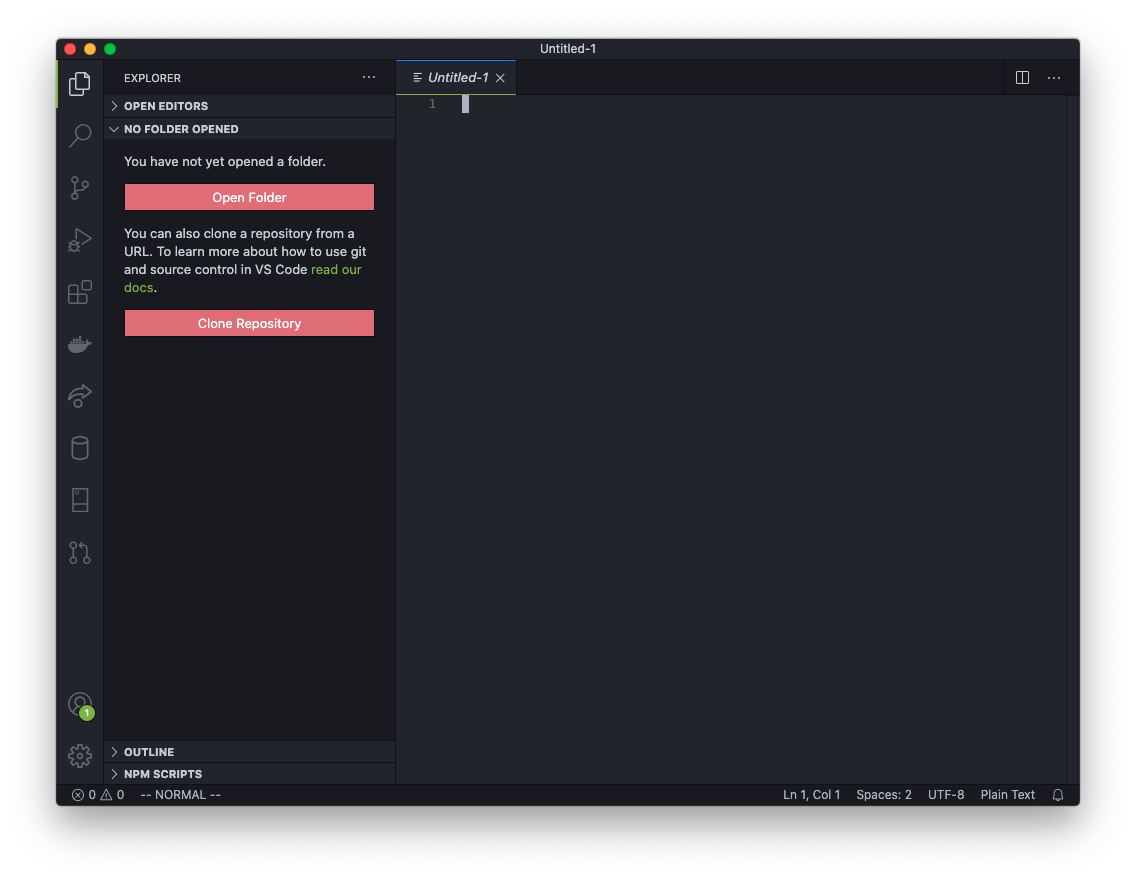
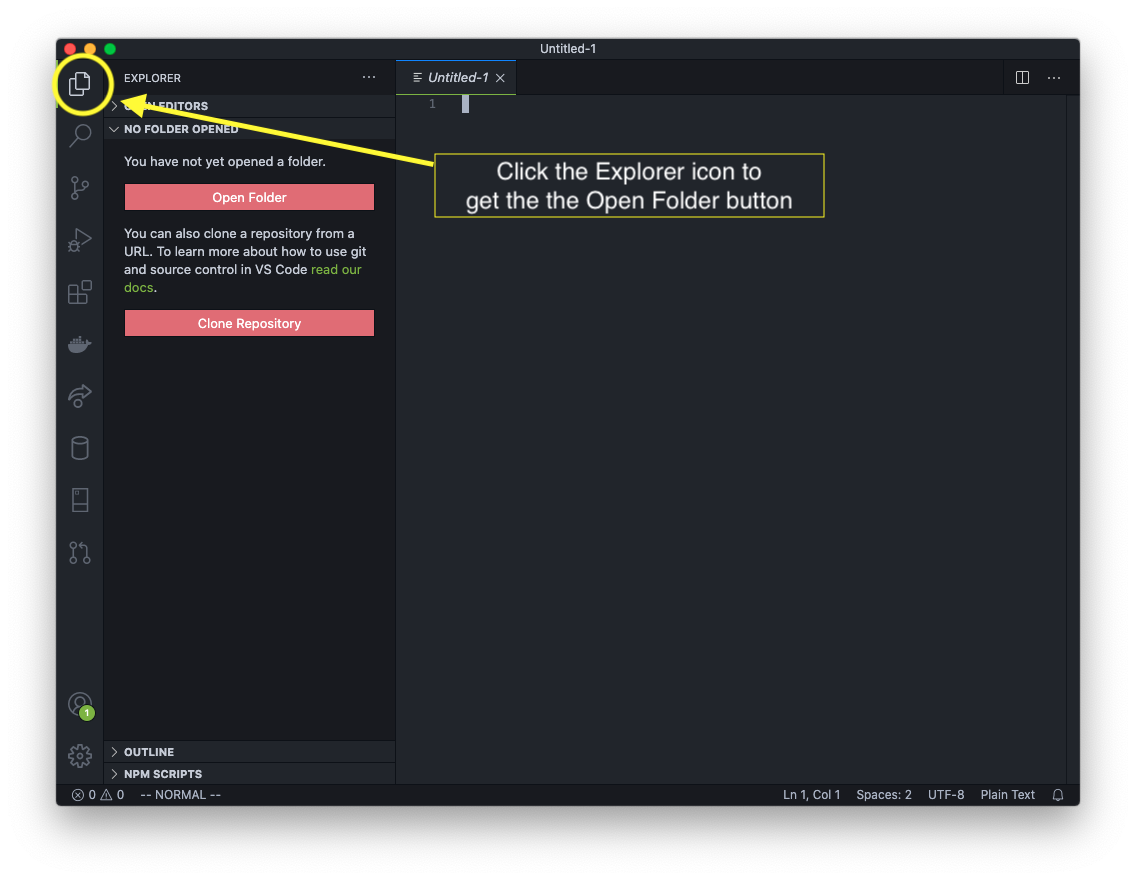
Update instructions for Docker, Github, VS Code

diff --git a/phpmotors/views/docker-setup.html b/phpmotors/views/docker-setup.html
@@ -41,6 +41,7 @@
       <iframe width="560" height="315" src="https://www.youtube.com/embed/O4Yro0VN5Ds" frameborder="0" allow="accelerometer; autoplay; clipboard-write; encrypted-media; gyroscope; picture-in-picture" allowfullscreen>
       </iframe>
 
+      <p>Mac users with the new Apple silicon, download the correct version for Docker from here: <a href="https://docs.docker.com/desktop/mac/apple-silicon/">https://docs.docker.com/desktop/mac/apple-silicon/</a></p>
 
       <h1 id="create-a-project-folder">Create a Project Folder</h1>
       <p>Next we need to decide where to locate the files for this course. Create a project folder anywhere on your computer that you like. One suggestion is to create this in your Documents folder.</p>
@@ -48,10 +49,12 @@
       <iframe width="560" height="315" src="https://www.youtube.com/embed/FhjLQYFg3FY" frameborder="0" allow="accelerometer; autoplay; clipboard-write; encrypted-media; gyroscope; picture-in-picture" allowfullscreen></iframe>
       <p>[This video shows the steps that are detailed below. There is no audio, yet.]</p>
 
-      <p>Open VS Code in a new window (<u>File-&gt;New Window</u>). We will now create a new folder named <code>cse340</code> that will hold the Docker files and the website project files. Click the <u>Open Folder</u> button, browse to the path where you want your project files to reside, and create a new folder named <code>cse340</code>. Then click the <u>Open</u> button.</p>
+      <p>Open VS Code in a new window (<u>File-&gt;New Window</u>). We will now create a new folder named <code>cse340</code> that will hold the Docker files and the website project files. Click on the "Explorer" icon which is in the top left corner of the VS Code window. Click the <u>Open Folder</u> button, browse to the path where you want your project files to reside, and create a new folder named <code>cse340</code>. Then click the <u>Open</u> button.</p>
       <p><img src="/340br/images/docker/open-folder-button.png" alt="Open folder button" /></p>
 
       <p> <img src="/340br/images/docker/create-folder.png" alt="Create folder" /></p>
+
+      <p>Click the check boxes and buttons that say you approve and trust the authors of the folder. (That's you anyways, so hopefully you trust yourself. :) )</p>
       <p>Your workspace in VS Code should now look something like this:</p>
       <p><img src="/340br/images/docker/vscode-workspace.png" alt="VS Code Workspace" /></p>
       <p>When you are asked to zip your project folder, the <code>cse340</code> folder is the folder you will zip up, including all of the contents within.</p>
@@ -75,13 +78,14 @@
       <p><img src="/340br/images/docker/clone-before.png" alt="Clone command" /></p>
       <p>After the clone command runs, your VS Code will look like this:</p>
       <p><img src="/340br/images/docker/clone-after.png" alt="Clone command" /></p>
-      <p>You will notice a new folder and four files. Here is what they do:</p>
+      <p>You will notice a new folder and five files. Here is what they do:</p>
       <ul>
         <li><code>www</code> folder = This is where all of the website files will go (PHP, HTML, CSS, images, etc)</li>
         <li><code>.gitignore</code> = just ignore this file :) This file tells Git to ignore files and folders</li>
         <li><code>docker-compose.yml</code> = A file to select specific images and send commands to the containers. Docker uses this file to know what images to use to turn into running containers.</li>
         <li><code>Dockerfile</code> = Tells Docker how to create an image used in the docker-compose.yml file</li>
         <li><code>README.md</code> = Contains the text you see on the GitHub page for this repo</li>
+        <li><code>uploads.ini</code> = Contains settings to allow PHP to upload files as large as 256MB</li>
       </ul>
 
 
@@ -95,6 +99,12 @@
       <p>Click on the docker-compose.yml file in the VS Code sidebar so you can edit the contents.</p>
       <p>Change the name of the database on line 43 to <code>phpmotors</code>. Make sure to save the file!</p>
       <p><img src="/340br/images/docker/change-db-name.png" alt="Change db name" /></p>
+
+      <p>If you have a new Mac with the M1 or newer CPU, then you will also need to uncomment line #33</p>
+      <p><img src="/340br/images/docker/mac-silicon-change.png" alt="Uncomment this line if you have a new Mac" /></p>
+
+      <p>You will also need to run this command in the terminal (if you haven't done it already):</p>
+      <p><code>softwareupdate --install-rosetta</code></p>
 
       <p>You can change the root password, username and user password if you desire, but it's not necessary for this course. In a production environment, you would want to use a more secure password and use environment variables so that the passwords are not saved in a file that will be shared.</p>
 

diff --git a/phpmotors/views/github-vscode-setup.html b/phpmotors/views/github-vscode-setup.html
@@ -125,7 +125,7 @@
       <p>Notice the Git icon on the left sidebar. Click on that.</p>
       <p><img src="/340br/images/github-vscode/new-vscode-window.png" alt="New VS Code window" /></p>
 
-      <p>You should see two pink colored buttons; one for <u>Open Folder</u> and one for <u>Clone Repository.</u> Click on the <u>Clone Repository</u> button. This opens the VS Code Command Prompt. </p>
+      <p>You should see two buttons; one for <u>Open Folder</u> and one for <u>Clone Repository.</u> Click on the <u>Clone Repository</u> button. This opens the VS Code Command Prompt. </p>
       <p><img src="/340br/images/github-vscode/git-open-repo.png" alt="Clone Repository button" /></p>
 
       <p>Click on the dropdown option <u>Clone from GitHub</u>.</p>
@@ -242,7 +242,7 @@
       <p><img src="/340br/images/github-vscode/github-repo-updated.png" alt="GitHub repo page updated" /></p>
       <p>Note: If you discard the changes (the bent arrow icon), then all the changes you made to the file will be lost and the file will change back to how it was before you 'staged' it for the commit.</p>
 
-      <p>This folder (the <code>phpmotors</code> folder inside the <code>www</code> folder) is where you will put your code as you work on the weekly Activities and Assignments. You will follow this process each week of adding and editing files, staging, committing, and pushing.</p>
+      <p>This folder (the <code>phpmotors</code> folder inside the <code>www</code> folder, if you are using Docker, or the <code>phpmotors</code> folder inside the <code>htdocs</code> folder if using XAMPP) is where you will put your code as you work on the weekly Activities and Assignments. You will follow this process each week of adding and editing files, staging, committing, and pushing.</p>
 
       <p>
       <ol>
